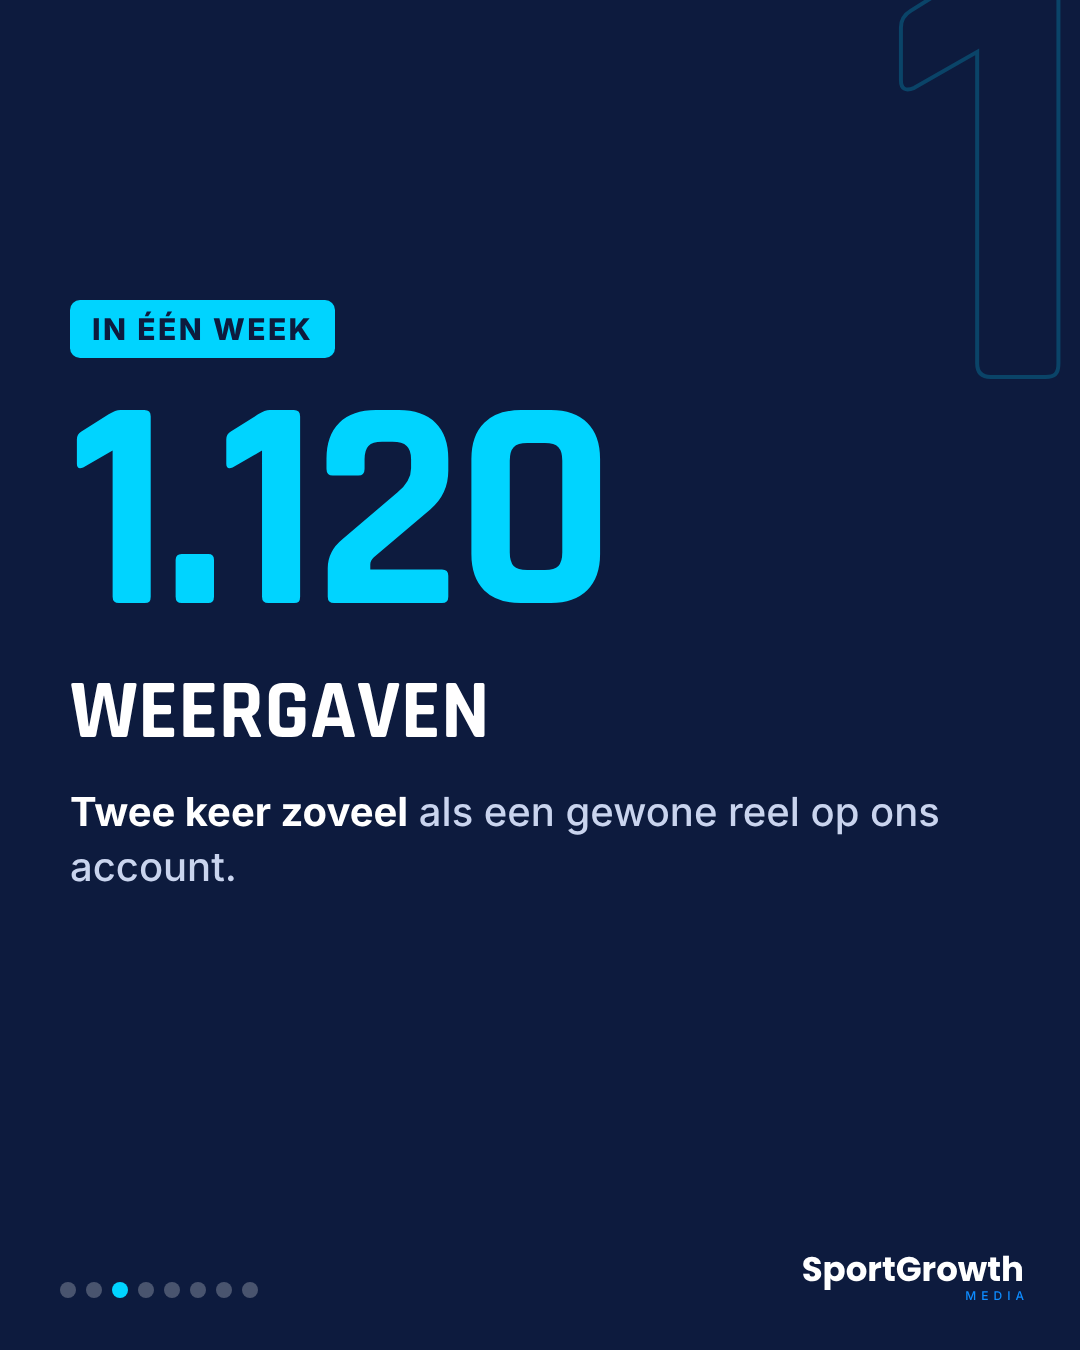
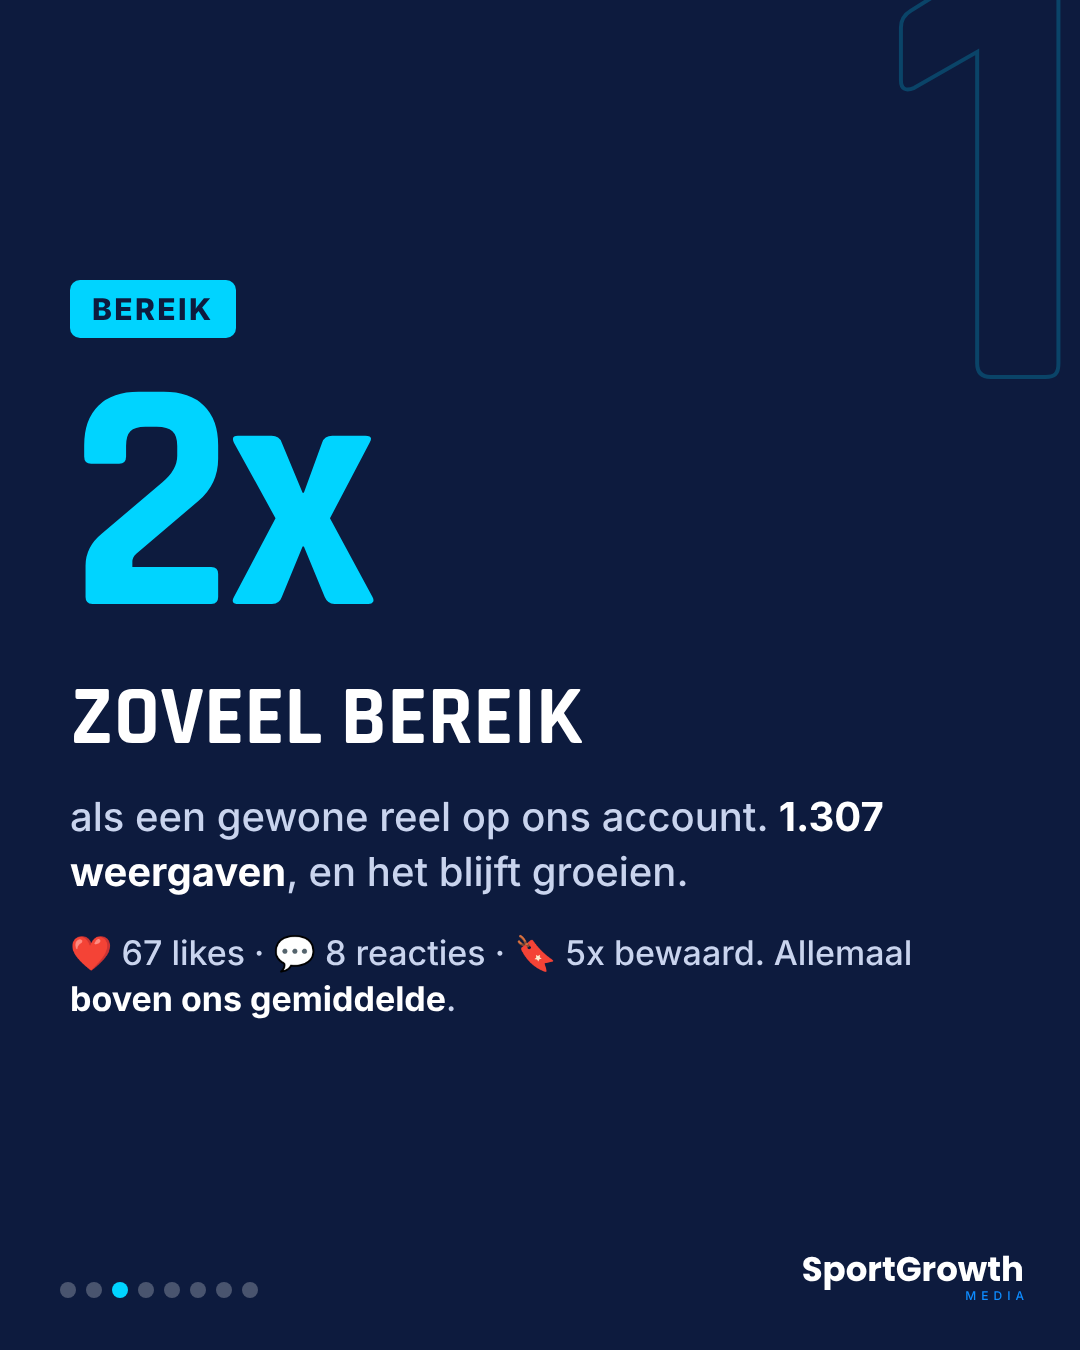
Carrousel FLAXX: 2x i.p.v. absoluut getal, nieuwe cijfers (1.307)
Claude-Session: https://claude.ai/code/session_01QkSWZzWLTduRQtPp2zathG

Changed region(s): [[0.0611, 0.1867, 0.5806, 0.4667], [0.0611, 0.5911, 0.8861, 0.7467], [0.0611, 0.4978, 0.55, 0.56]]

diff --git a/instagram/carrousel-flaxx/build.js b/instagram/carrousel-flaxx/build.js
@@ -59,11 +59,12 @@ S.push(page(2, `
 // 3 CIJFER 1
 S.push(page(3, `
 <div class="num">1</div>
-<div class="col" style="top:300px;gap:30px">
-<span class="tag">IN ÉÉN WEEK</span>
-<div style="font:700 300px/.85 Rj;color:#00d4ff;letter-spacing:-6px">1.120</div>
-<h2 style="font-size:84px">weergaven</h2>
-<p class="t"><b>Twee keer zoveel</b> als een gewone reel op ons account.</p>
+<div class="col" style="top:280px;gap:30px">
+<span class="tag">BEREIK</span>
+<div style="font:700 330px/.85 Rj;color:#00d4ff;letter-spacing:-6px">2x</div>
+<h2 style="font-size:84px">zoveel bereik</h2>
+<p class="t">als een gewone reel op ons account. <b>1.307 weergaven</b>, en het blijft groeien.</p>
+<p class="t" style="font-size:34px">❤ 67 likes · 💬 8 reacties · 🔖 5x bewaard. Allemaal <b>boven ons gemiddelde</b>.</p>
 </div>`));
 // 4 CIJFER 2
 S.push(page(4, `
@@ -72,7 +73,7 @@ S.push(page(4, `
 <span class="tag">NIEUW PUBLIEK</span>
 <div style="font:700 300px/.85 Rj;color:#00d4ff;letter-spacing:-6px">85%</div>
 <h2 style="font-size:84px">nieuwe mensen</h2>
-<p class="t">Bijna iedereen die keek, <b>kende ons of FLAXX nog niet</b>. Een collab-post verschijnt op twee profielen tegelijk.</p>
+<p class="t">Bijna iedereen die keek, <b>kende ons of FLAXX nog niet</b>. De helft is tussen 35 en 54: de mensen die beslissen.</p>
 </div>`));
 // 5 VOOR FLAXX
 S.push(page(5, `

diff --git a/instagram/statistieken.md b/instagram/statistieken.md
@@ -24,7 +24,7 @@ Elke 2 weken (maandag): conclusies onderaan bijwerken en de volgende reels daaro
 | di 27/10 | Reel 6 3 fouten op de Instagram van padelclubs | 40 s | padelactie + DM-screenshot "We willen met 12 collega's..." (pijn) | 582 (10 d) | 89% | **61,2%** (lager) | 9 s | 0,4% | 0,4% | 0 (8 profielbezoeken) | pijnhook: laagste overslaan van de recente reels, boven gemiddelde, 52% 35+; maar te lang, weinig likes |
 | do 29/10 | Reel 7 trainers | 35,6 s | trainer wijst naar het terrein (kinderen ver) + "Zo laat je zien dat je trainers goed zijn" | 372 (8 d) | 83% | 66,7% | 8 s | 0,7% | 0,4% | 1 (8 profielbezoeken) | how-to-hook, rustig beeld: onder gemiddelde; 42% is 25-34 jaar |
 | di 3/11 | Reel 8 boekingen | 29,7 s | twee speelsters praten aan het net (stil beeld) + "Zo krijg je meer boekingen" | 340 (3 d) | 87% | 63,6% (lager dan gemiddeld) | 6 s | 0% | 0,4% | 1 | onder gemiddelde (±500): geen actie, how-to-hook zonder pijn, waarde kwam laat, niets om te delen |
-| do 5/11 | Collab Flaxx "Het verhaal achter Flaxx" | 33 s | AI-clip smash, tekst pas na 0,75 s | 743 (14u) · 860 (±40u) · 994 (3 d, 617 kijkers) / 1.120 (6 d, 678 kijkers, 58 likes, 8 reacties, 5 bewaard, 85% niet-volgers) | 84,5% | **69,8%** | 9 s | 1,1% | 0,6% | 0 (8 profielbezoeken) | 2,5x gemiddelde, likes/delen/bewaren boven gemiddelde, maar opening te traag |
+| do 5/11 | Collab Flaxx "Het verhaal achter Flaxx" | 33 s | AI-clip smash, tekst pas na 0,75 s | 743 (14u) · 860 (±40u) · 994 (3 d, 617 kijkers) / 1.120 (6 d) · 1.307 (11 d, 759 kijkers, 67 likes 7,7%, 8 reacties, 5 bewaard, 2 reposts, 85,2% niet-volgers, 49% 35-54 j) | 84,5% | **69,8%** | 9 s | 1,1% | 0,6% | 0 (8 profielbezoeken) | 2,5x gemiddelde, likes/delen/bewaren boven gemiddelde, maar opening te traag |
 | di 10/11 | Reel 9 caption-reel "Heb jij een padelhal?" (CLUBTIP) | 7 s | stil beeld lege padelhal + titel, geen gezicht, geen spraak | 33 (±2u) · 292 (±4u, 214 kijkers) · 504 (wo 11/11, na story op persoonlijk IG + FB) / ? | 58% | **79%** (hoger) | 2 s van 7 | 0,4% (1 repost) | 0% | 0 (2 profielbezoeken) | wie kijkt, kijkt tot het einde, maar Instagram toonde hem aan bijna niemand: ver onder de gemiddelde lijn (±220 na 6u). 97% via feed, 0% via stories (story nog niet gedeeld). Geen gezicht = tegen de nieuwe regel. Na story + 1 repost: sprong naar 292 (80% via stories, 58% niet-volgers), maar die kijkers swipen snel weg (79% overslaan, 2 s). 60% is 25-34. Les: delen in story/repost brengt bereik, de inhoud moet ze vasthouden. Opnieuw meten na 7d |
 | do 12/11 18u | Reel 10 meningsreel "Sportclubs, stop met affiches" (studio via Beeble, titel achter Jari) | 21,6 s | stelling + affiche met STOP vanaf frame 0 | 1.672 (±25u, 1.117 kijkers) / ? | **65,4%** | **62,3%** (lager, groen) | 9 s (±42%) | 0,6% | 0% | **5** (45 profielbezoeken, 1 klik bio) | **beste start ooit: 3-4x gemiddelde**. 76,8% via stories, tabblad Reels gestegen 3,9→9,5%. 65% is 25-34 (persoonlijk netwerk). Zwak: 0 reacties, 0 bewaard ondanks vraag in caption. Likes piek in sec 1-2 (affiche+STOP). Les: studio + stelling werkt voor kijktijd; reacties uitlokken moet in de video zelf |
 
